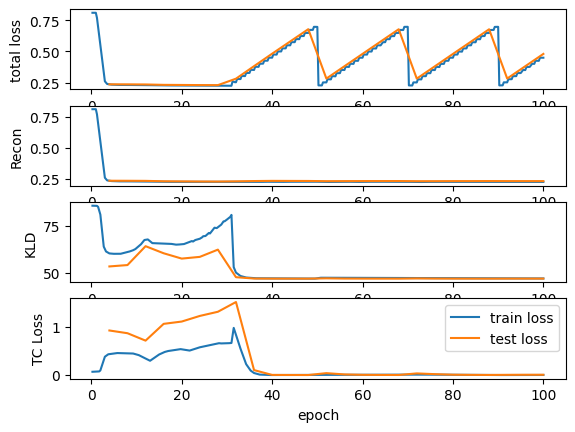
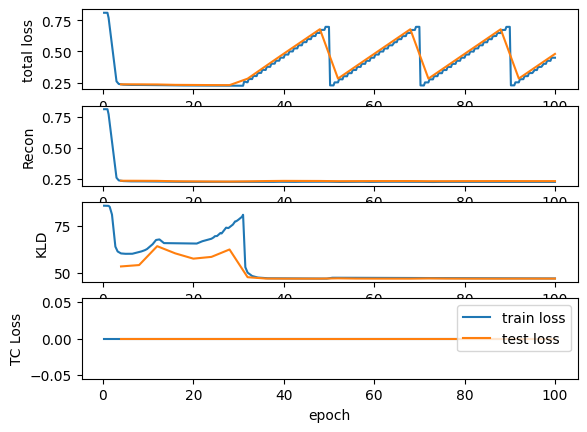
my_TCVAE_with_correct_ploting_function

diff --git a/Runner.py b/Runner.py
@@ -14,6 +14,7 @@ import matplotlib.style
 import torch
 from torch import Tensor
 from torch.optim import AdamW
+from data_preparation_realData_suc import action_colors, get_batch_random, get_batch_ss
 from torch.optim.lr_scheduler import SequentialLR, LinearLR, CosineAnnealingLR
 import torch.nn.functional
 
@@ -109,9 +110,9 @@ class Runner:
             # omit checkpointing for now
             if epoch % self.config.TRAIN.VAL_INTERVAL == 0:
                 results = self.evaluate(test_movements, test_trial_no)
-                # if epoch % self.config.TRAIN.VAL_DRAW_INTERVAL == 0:
-                    # self.plot_result(results, self.config.CHECKPOINT_DIR, target_file, epoch,
-                    #                  has_var=self.variational, need_show=self.config.TRAIN.SHOW_PLOTS)
+                if epoch % self.config.TRAIN.VAL_DRAW_INTERVAL == 0:
+                    self.plot_result(results, self.config.CHECKPOINT_DIR, target_file, epoch,
+                                     has_var=self.variational, need_show=self.config.TRAIN.SHOW_PLOTS)
                 val_loss_all.append(results["loss"])
 
 
@@ -142,7 +143,7 @@ class Runner:
         torch.save(save_dict, f'{self.config.RESULT_DIR}{target_file}.pth')
         results = self.evaluate(test_movements, test_trial_no)
         self.plot_result(results, self.config.FIG_DIR, target_file, self.config.TRAIN.NUM_UPDATES,
-                         has_var=self.variational, need_show=self.config.TRAIN.SHOW_PLOTS, dataset_type='test')
+                         has_var=self.variational, need_show=self.config.TRAIN.SHOW_PLOTS)
         results["train_loss_all"] = train_loss_all
         results["val_loss_all"] = val_loss_all
         scio.savemat(f'{self.config.RESULT_DIR}/{target_file}.mat', results)
@@ -274,56 +275,58 @@ class Runner:
             plt.show()
         plt.close()
 
-    def plot_result(self, results, save_dir, target_file, epoch, has_var, need_show, dataset_type='test'):
-        plot_time = np.arange(0, 3, 0.01)
-        plot_indexes = range(0, 300)
+    @staticmethod
+    def plot_result(results, save_dir, target_file, epoch, has_var, need_show):
+        plot_time = np.arange(0, 30, 0.01)
+        plot_indexes = range(0, 3000)
 
         results_flattened = {}
         for key in results: 
             if key != 'loss': 
-                results_flattened[key] = results[key][:, :10, :].transpose(1, 0, 2).reshape(-1, results[key].shape[2])
+                results_flattened[key] = results[key][-200:, :, :].transpose(1, 0, 2).reshape(-1, results[key].shape[2])
+
+        results = results_flattened
 
         fig, axs = plt.subplots(4, 2)
         for i in range(3):
             for j in range(2):
+                # plot actions
+                colors = action_colors[results["movements"][plot_indexes, 0].astype(int)]
+                axs[i, j].bar(plot_time, np.ones(len(plot_indexes)), color=colors, bottom=0, alpha=0.5)
                 # plot firing rate of neuron i
-                rate = results_flattened["true_rate"][plot_indexes, i * 2 + j]
+                rate = gaussian_filter1d(results["truth"][plot_indexes, i * 2 + j+10], sigma=10)
                 axs[i, j].plot(plot_time, rate, label='Ground Truth', color='k')
-                axs[i, j].plot(plot_time, results_flattened["predictions"][plot_indexes, i * 2 + j],
+                axs[i, j].plot(plot_time, results["predictions"][plot_indexes, i * 2 + j+10],
                                label='Predictions', color='g')
-                if not self.config.DATA.RATE_INPUT:
-                    # plot spike trains of neuron i
-                    spike_times = plot_time[results_flattened["truth"][plot_indexes, i * 2 + j] >= 1]
-                    axs[i, j].vlines(spike_times, 0.75, 0.95, color='k', linewidth=0.3, label='Truth Spikes')
-                    spike_times = plot_time[results_flattened["predicted_spikes"][plot_indexes, i * 2 + j] == 1]
-                    axs[i, j].vlines(spike_times, 0.5, 0.7, color='g', linewidth=0.3, label='Predicted Spikes')
-                axs[i, j].set_title('Neuron ' + str(i * 2 + j))
+                # plot spike trains of neuron i
+                spike_times = plot_time[results["truth"][plot_indexes, i * 2 + j+10] == 1]
+                axs[i, j].vlines(spike_times, 0.75, 0.95, color='k', linewidth=0.3, label='Truth Spikes')
+                spike_times = plot_time[results["predicted_spikes"][plot_indexes, i * 2 + j+10] == 1]
+                axs[i, j].vlines(spike_times, 0.5, 0.7, color='g', linewidth=0.3, label='Predicted Spikes')
+                axs[i, j].set_title('Neuron ' + str(i * 2 + j+10))
                 axs[i, j].set_xticklabels([])
         axs[2, 0].set_ylabel('Firing Probability')
         axs[0, 1].legend(loc='upper right', bbox_to_anchor=(1.8, 1.2))
 
-        for d in range(results_flattened["latent_mu"].shape[1]):
-            axs[3, 0].plot(plot_time, results_flattened["latent_mu"][plot_indexes, d])
+        for d in range(results["latent_mu"].shape[1]):
+            axs[3, 0].plot(plot_time, results["latent_mu"][plot_indexes, d])
             if has_var:
                 axs[3, 0].fill_between(
                     plot_time,
-                    (results_flattened["latent_mu"][plot_indexes, d] - results_flattened["latent_std"][plot_indexes, d]).squeeze(),
-                    (results_flattened["latent_mu"][plot_indexes, d] + results_flattened["latent_std"][plot_indexes, d]).squeeze(),
+                    (results["latent_mu"][plot_indexes, d] - results["latent_std"][plot_indexes, d]).squeeze(),
+                    (results["latent_mu"][plot_indexes, d] + results["latent_std"][plot_indexes, d]).squeeze(),
                     alpha=.1)
 
-            axs[3, 1].plot(plot_time, gaussian_filter1d(results_flattened["latent_mu"][plot_indexes, d],
-                                                        sigma=self.config.TRAIN.MU_PRIORI_SIGMA))
+            axs[3, 1].plot(plot_time, gaussian_filter1d(results["latent_mu"][plot_indexes, d], sigma=10))
             if has_var:
                 axs[3, 1].fill_between(
                     plot_time,
-                    (gaussian_filter1d(results_flattened["latent_mu"][plot_indexes, d],
-                                       sigma=self.config.TRAIN.MU_PRIORI_SIGMA) - 0.1).squeeze(),
-                    (gaussian_filter1d(results_flattened["latent_mu"][plot_indexes, d],
-                                       sigma=self.config.TRAIN.MU_PRIORI_SIGMA) + 0.1).squeeze(),
+                    (gaussian_filter1d(results["latent_mu"][plot_indexes, d], sigma=10) - 1).squeeze(),
+                    (gaussian_filter1d(results["latent_mu"][plot_indexes, d], sigma=10) + 1).squeeze(),
                     alpha=.1)
             axs[3, 0].set_xlabel('Time (sec)')
 
-        plt.savefig(f'{save_dir}/pred_result_{target_file}_{epoch}_'+dataset_type+'.png', bbox_inches='tight')
+        plt.savefig(f'{save_dir}/{target_file}_{epoch}.png', bbox_inches='tight')
+
         if need_show:
             plt.show()
-        plt.close()

diff --git a/model/models_new.py b/model/models_new.py
@@ -115,6 +115,9 @@ class VAE(nn.Module):
 
         # return bce + beta * kld, bce, kld, kld
 
+        if gamma == 0.:
+            return recon_loss + beta * kld, recon_loss, kld, torch.tensor(0.)
+        
         # TC loss
         mini_mini_batch = self.config.TRAIN.TC_LOSS_BATCH_SIZE
         tc_loss_step_size = self.config.TRAIN.TC_LOSS_STEP_SIZE
